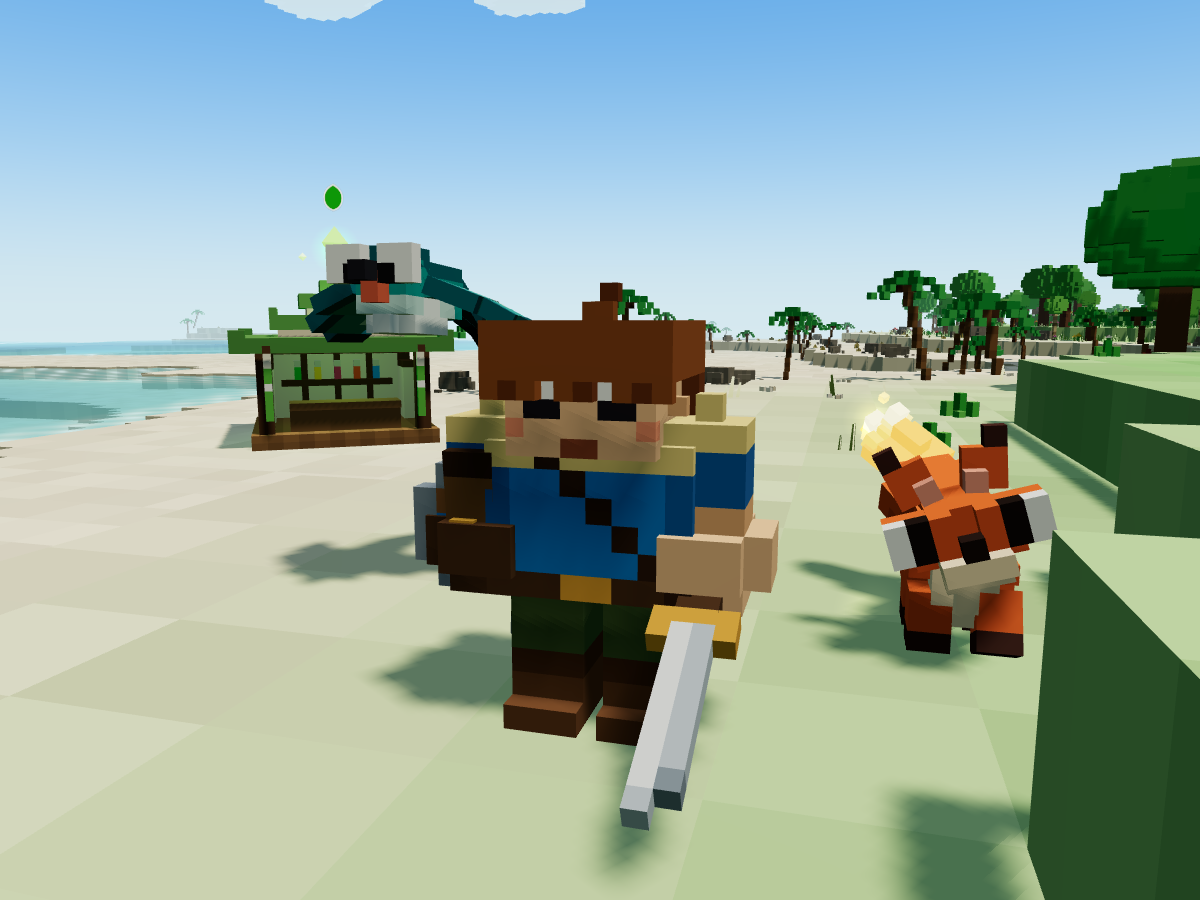
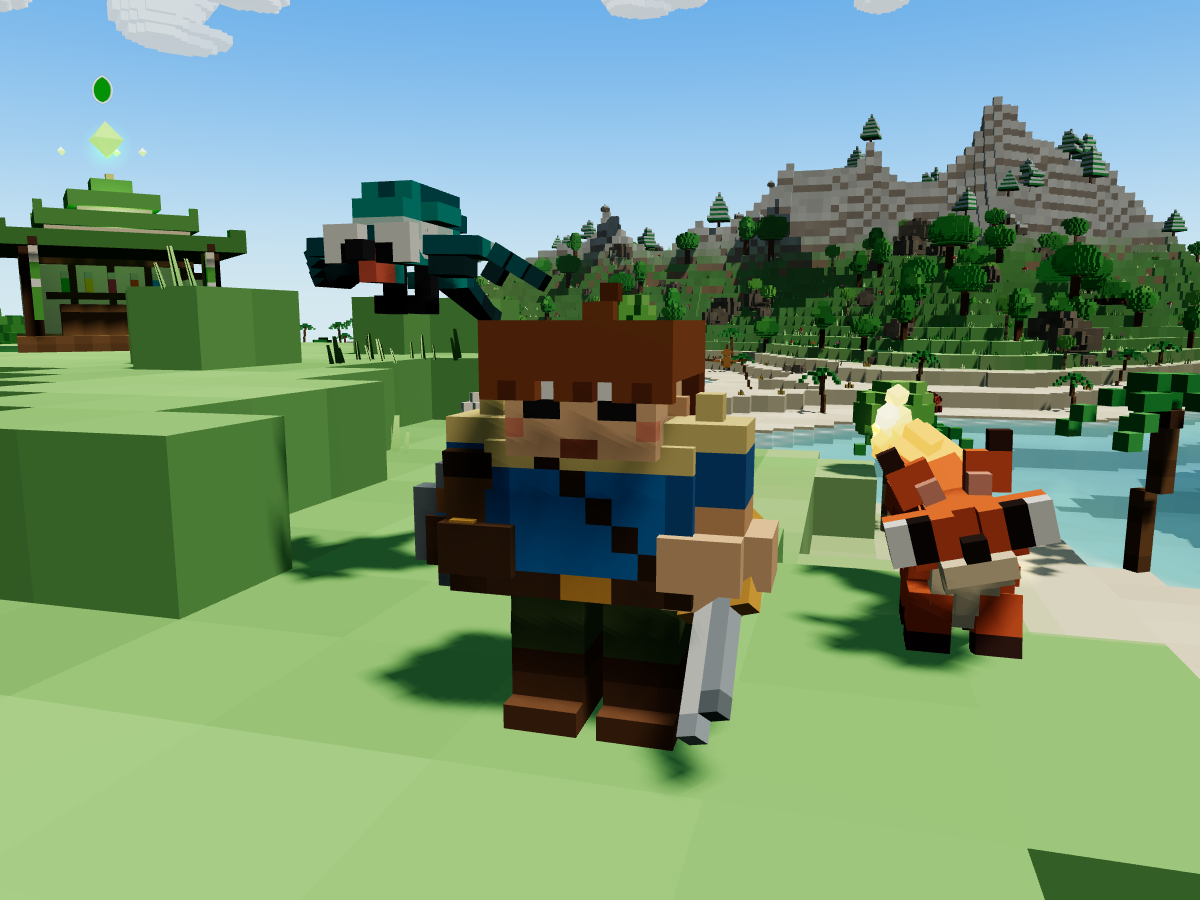
Fix portrait rig: flat-spot search, occlusion-aware camera, staged facing
Portraits were shooting from inside hillsides after the terrain gained real
vertical relief, and hovering flyers ignored the staged facing.

- Photo mode now walks a ring of candidate spots and picks level, dry ground
  (max height deviation < 0.7 over ~3 units) instead of blindly offsetting.
- The portrait camera clears its own ground by 0.9 and then walks the sight
  line to the subject, lifting until nothing occludes it.
- Auto-fit distance targets ~40% frame height using max(height, radius*2.2)
  with a 2.6-unit floor; the previous 58% target put the lens close enough to
  distort badly at 55 deg FOV.
- facingOverride is now authoritative in the framework: it was gated behind a
  speed check that hovering flyers always tripped, so they photographed
  rear-facing.
- Sparkit: removed the eye outline entirely. On a 7-cell-wide face any ink
  framing merged with the pupils into one dark bar -- that plus the under-eye
  stripes was the actual "chequerboard". Cheek sparks moved low and outboard
  so they stop reading as goggle lenses.

Verified: tsc clean; portraits confirmed framed, unoccluded and facing camera.

diff --git a/src/main.ts b/src/main.ts
@@ -172,20 +172,45 @@ if (photoMode) {
   }
   const palId = params.get('pal');
   if (palId || params.get('poff')) {
-    // Portraits happen on open ground, clear of the spawn-village shops. Each
-    // species gets its own spot on a ring so ten portraits aren't ten copies
-    // of the same postcard.
+    // Portraits happen on open, FLAT ground so the camera never ends up buried
+    // in a hillside. Each species starts from its own bearing on a ring (so ten
+    // portraits aren't ten copies of the same postcard) then walks outward
+    // until it finds a level, dry patch.
     const idx = Math.max(0, roster.findIndex((p) => p.species.id === palId));
     const ring = (idx / roster.length) * Math.PI * 2;
-    const def = new THREE.Vector3(
-      Math.cos(ring) * 17 + Math.sin(ring * 2.7) * 5,
-      0,
-      Math.sin(ring) * 17 + Math.cos(ring * 1.9) * 5,
-    );
-    const off = parseVec(params.get('poff'), def);
-    player.position.x += off.x;
-    player.position.z += off.z;
-    player.position.y = Math.max(world.getHeight(player.position.x, player.position.z) + 0.1, world.waterLevel + 0.2);
+    const base = world.spawnPoint;
+
+    /** Max height deviation within ~3 units — low means level ground. */
+    const flatness = (x: number, z: number): number => {
+      const h = world.getHeight(x, z);
+      let worst = 0;
+      for (const [dx, dz] of [[3, 0], [-3, 0], [0, 3], [0, -3], [2, 2], [-2, -2]]) {
+        worst = Math.max(worst, Math.abs(world.getHeight(x + dx, z + dz) - h));
+      }
+      return worst;
+    };
+
+    let best: THREE.Vector3 | null = null;
+    let bestFlat = Infinity;
+    for (const radius of [16, 21, 26, 31, 12]) {
+      for (let k = -4; k <= 4 && !best; k++) {
+        const a = ring + k * 0.26;
+        const x = base.x + Math.cos(a) * radius;
+        const z = base.z + Math.sin(a) * radius;
+        if (world.getHeight(x, z) < world.waterLevel + 0.6) continue; // not in the shallows
+        const f = flatness(x, z);
+        if (f < bestFlat) { bestFlat = f; best = new THREE.Vector3(x, 0, z); }
+        if (f < 0.7) break; // good enough, take it
+      }
+      if (bestFlat < 0.7) break;
+    }
+
+    const spot = params.get('poff')
+      ? parseVec(params.get('poff'), base).add(base)
+      : (best ?? base);
+    player.position.x = spot.x;
+    player.position.z = spot.z;
+    player.position.y = Math.max(world.getHeight(spot.x, spot.z) + 0.1, world.waterLevel + 0.2);
   }
   if (palId) {
     const idx = roster.findIndex((p) => p.species.id === palId);
@@ -221,19 +246,36 @@ function frame(): void {
       // Auto-frame the primary pal: 3/4 portrait tracking its live position.
       const pal = primary();
       const ang = (Number(params.get('a') ?? 35) * Math.PI) / 180;
-      // Subject fills ~58% of frame height, sized from its actual rig.
-      const subject = Math.max(0.45, pal.height);
+      // Frame the subject at ~40% of frame height. Sized from the rig's own
+      // extents (a small pal's ears/tail push well past its nominal height, and
+      // wingspan dominates for flyers) with a hard minimum distance: at 55° FOV
+      // anything closer than ~2.6 units distorts badly on a wide-angle lens.
+      const subject = Math.max(0.5, pal.height, pal.radius * 2.2);
       const vFov = (engine.camera.fov * Math.PI) / 180;
-      const fitDist = (subject / 0.58) / (2 * Math.tan(vFov / 2));
-      const dist = Number(params.get('dist') ?? Math.max(1.6, fitDist));
+      const fitDist = subject / (0.4 * 2 * Math.tan(vFov / 2));
+      const dist = Number(params.get('dist') ?? Math.max(2.6, fitDist));
       const cx = pal.position.x + Math.sin(ang) * dist;
       const cz = pal.position.z + Math.cos(ang) * dist;
       // True eye level with the subject's mid-height: looking down made ground
       // pals read as specimens and hovering flyers look face-planted.
       const midY = pal.position.y + subject * 0.5;
-      engine.camera.position.set(cx, Math.max(midY, world.getHeight(cx, cz) + 0.3), cz);
+      // ...but never inside or behind terrain. Clear the camera's own ground,
+      // then walk the sight line and lift until nothing occludes the subject.
+      const aimY = pal.position.y + subject * 0.42;
+      let camY = Math.max(midY, world.getHeight(cx, cz) + 0.9);
+      for (let s = 1; s <= 6; s++) {
+        const t = s / 7;
+        const gx = cx + (pal.position.x - cx) * t;
+        const gz = cz + (pal.position.z - cz) * t;
+        const clearance = world.getHeight(gx, gz) + 0.35;
+        // camY must be high enough that the ray camY->aimY passes above `clearance`
+        if (aimY + (camY - aimY) * (1 - t) < clearance) {
+          camY = aimY + (clearance - aimY) / Math.max(0.15, 1 - t);
+        }
+      }
+      engine.camera.position.set(cx, camY, cz);
       // Aim slightly low so the subject sits at ~0.45 frame height.
-      engine.camera.lookAt(pal.position.x, pal.position.y + subject * 0.42, pal.position.z);
+      engine.camera.lookAt(pal.position.x, aimY, pal.position.z);
       // Turn the subject to face the camera, off by 20° for a 3/4 view (the
       // camera's bearing from the pal is `ang`, so facing `ang` looks at it).
       pal.facingOverride = ang - 0.35;

diff --git a/src/pals/species/sparkit.ts b/src/pals/species/sparkit.ts
@@ -29,8 +29,10 @@ const BASE: Record<string, readonly [number, number, number, number, number, num
   head: [0, 0.22, 0.2, 0, 0, 0],
   earL: [0.1, 0.26, -0.04, -0.08, 0, 0.28],
   earR: [-0.1, 0.26, -0.04, -0.08, 0, -0.28],
-  sparkL: [0.25, 0.08, 0.1, 0, Math.PI / 2, 0],
-  sparkR: [-0.25, 0.08, 0.1, 0, -Math.PI / 2, 0],
+  // Cheek sparks sit low and well outboard: at eye height they merged with the
+  // eye row into one dark band with two glowing bars, i.e. goggles.
+  sparkL: [0.29, -0.02, 0.06, 0, Math.PI / 2, 0],
+  sparkR: [-0.29, -0.02, 0.06, 0, -Math.PI / 2, 0],
   tail: [0, 0.16, -0.26, -0.3, 0, 0],
   tailTip: [0, 0.36, -0.18, 0.55, 0, 0],
   legFL: [0.13, 0.06, 0.15, 0, 0, 0],
@@ -81,15 +83,14 @@ function buildRig(): PalRig {
   const hm = new VoxelModel();
   hm.ellipsoid(0, 1.8, 0.2, 2.4, 2.0, 2.2, YEL);
   hm.box(-3, 0, 2, 3, 3, 2, YEL); // flat face plate, wide enough to frame the eyes
-  // Eyes: a 2x2 white sclera per side with ONE ink pupil, each ringed by a
-  // 1-voxel ink outline. The ring is what stops white-next-to-black-next-to-
-  // yellow from reading as a chequerboard; the old under-eye stripes completed
-  // that chequer and are gone entirely.
+  // On a face only 7 cells wide, ANY ink framing around the eyes merges with
+  // the pupils into one dark bar across the whole muzzle — that was the real
+  // source of the "chequerboard" read, along with the (now deleted) under-eye
+  // stripes. So: no outline at all, just a clean 2x2 white sclera and one
+  // pupil, the way the pals that already photograph well do it.
   for (const sx of [1, -1]) {
     const inner = sx * 1;
     const outer = sx * 2;
-    // outline: a box one cell larger all round, painted first
-    hm.box(sx > 0 ? 0 : -3, 0, 2, sx > 0 ? 3 : 0, 3, 2, INK);
     hm.box(inner, 1, 2, outer, 2, 2, EYE_GLINT);
     hm.set(inner, 2, 2, INK); // pupil on the inner-top cell
   }

diff --git a/src/pals/framework.ts b/src/pals/framework.ts
@@ -464,9 +464,11 @@ export class PalActor {
 
     // -- Facing + banking ---------------------------------------------------
     const prevYaw = this.yaw;
-    const targetYaw = horizSpeed > 0.4
+    // A staged facing wins outright — flyers hover with enough residual speed
+    // to trip the movement branch, which left photo subjects facing away.
+    const targetYaw = this.facingOverride ?? (horizSpeed > 0.4
       ? Math.atan2(this.vel.x, this.vel.z)
-      : (this.facingOverride ?? this.ownerHeading);
+      : this.ownerHeading);
     this.yaw = dampAngle(this.yaw, targetYaw, horizSpeed > 0.4 ? 8 : 3.5, dt);
     const turnVel = dt > 0 ? angleDelta(prevYaw, this.yaw) / dt : 0;
 
